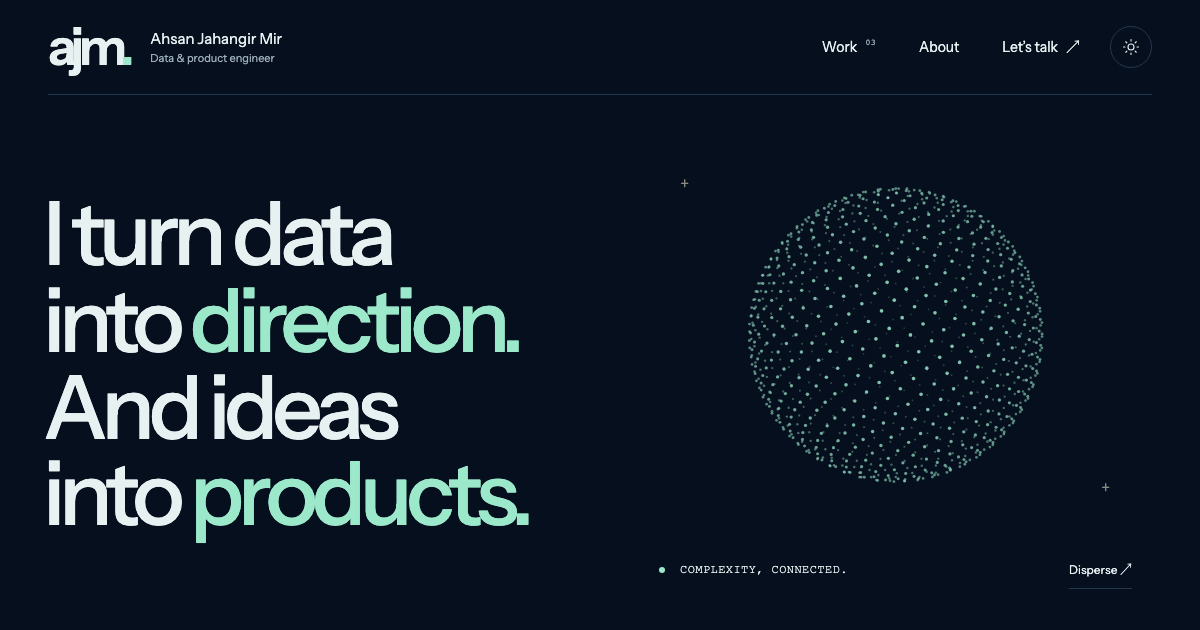
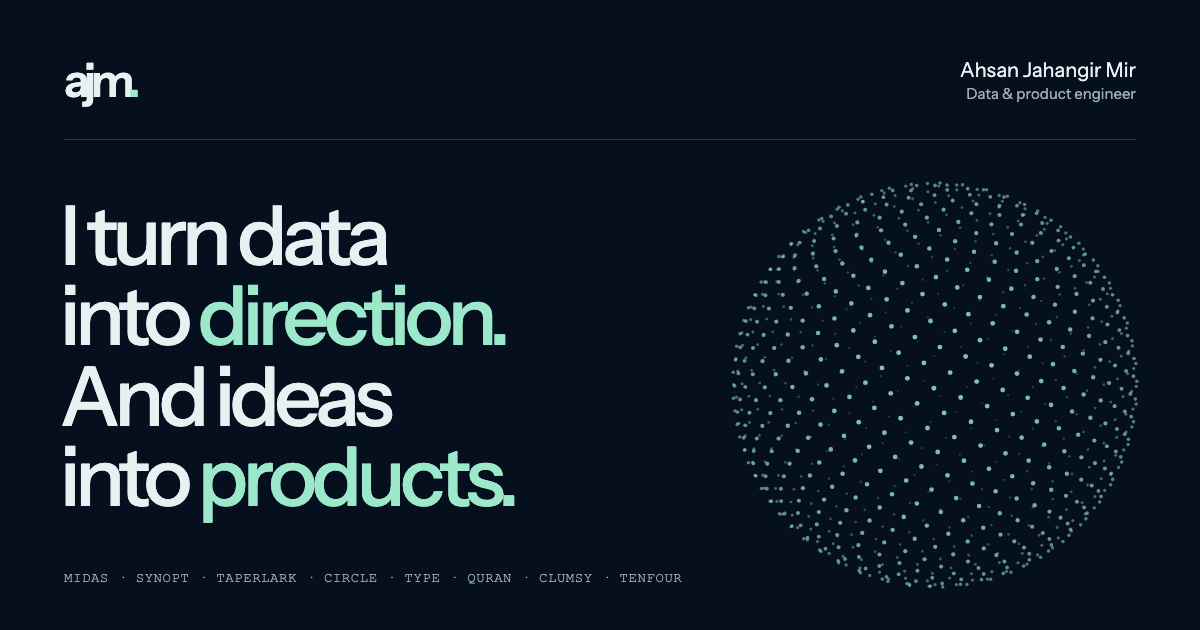
Center work plates, redraw share card, fix brand label
Captures now sit centered on their plates at every aspect ratio. The
1200x630 share card is composed from the hero line, sphere and project
names instead of a cropped viewport. The brand link no longer announces
the name twice to screen readers.

diff --git a/src/styles/site.css b/src/styles/site.css
@@ -83,7 +83,7 @@ a:active,button:active{opacity:.7}.nav-link:focus-visible:after{scale:1}.project
 /* Real work: live-site plates, honest status, an index of the rest. */
 .project-cover{background:var(--panel);aspect-ratio:1.36;isolation:isolate}
 .project-2 .project-cover{aspect-ratio:1.18}
-.shot{position:absolute;inset:9% 8% auto;will-change:transform}
+.shot{position:absolute;inset:0 8%;display:flex;align-items:center;will-change:transform}
 .shot img{display:block;width:100%;height:auto;border:1px solid var(--line);box-shadow:0 40px 80px -40px rgb(0 0 0/.55);transition:translate .9s var(--ease)}
 .cover-cta{font-family:'Courier New',monospace;letter-spacing:.02em;z-index:2;border:1px solid var(--line)}
 .project-heading{justify-content:flex-start;gap:18px}
